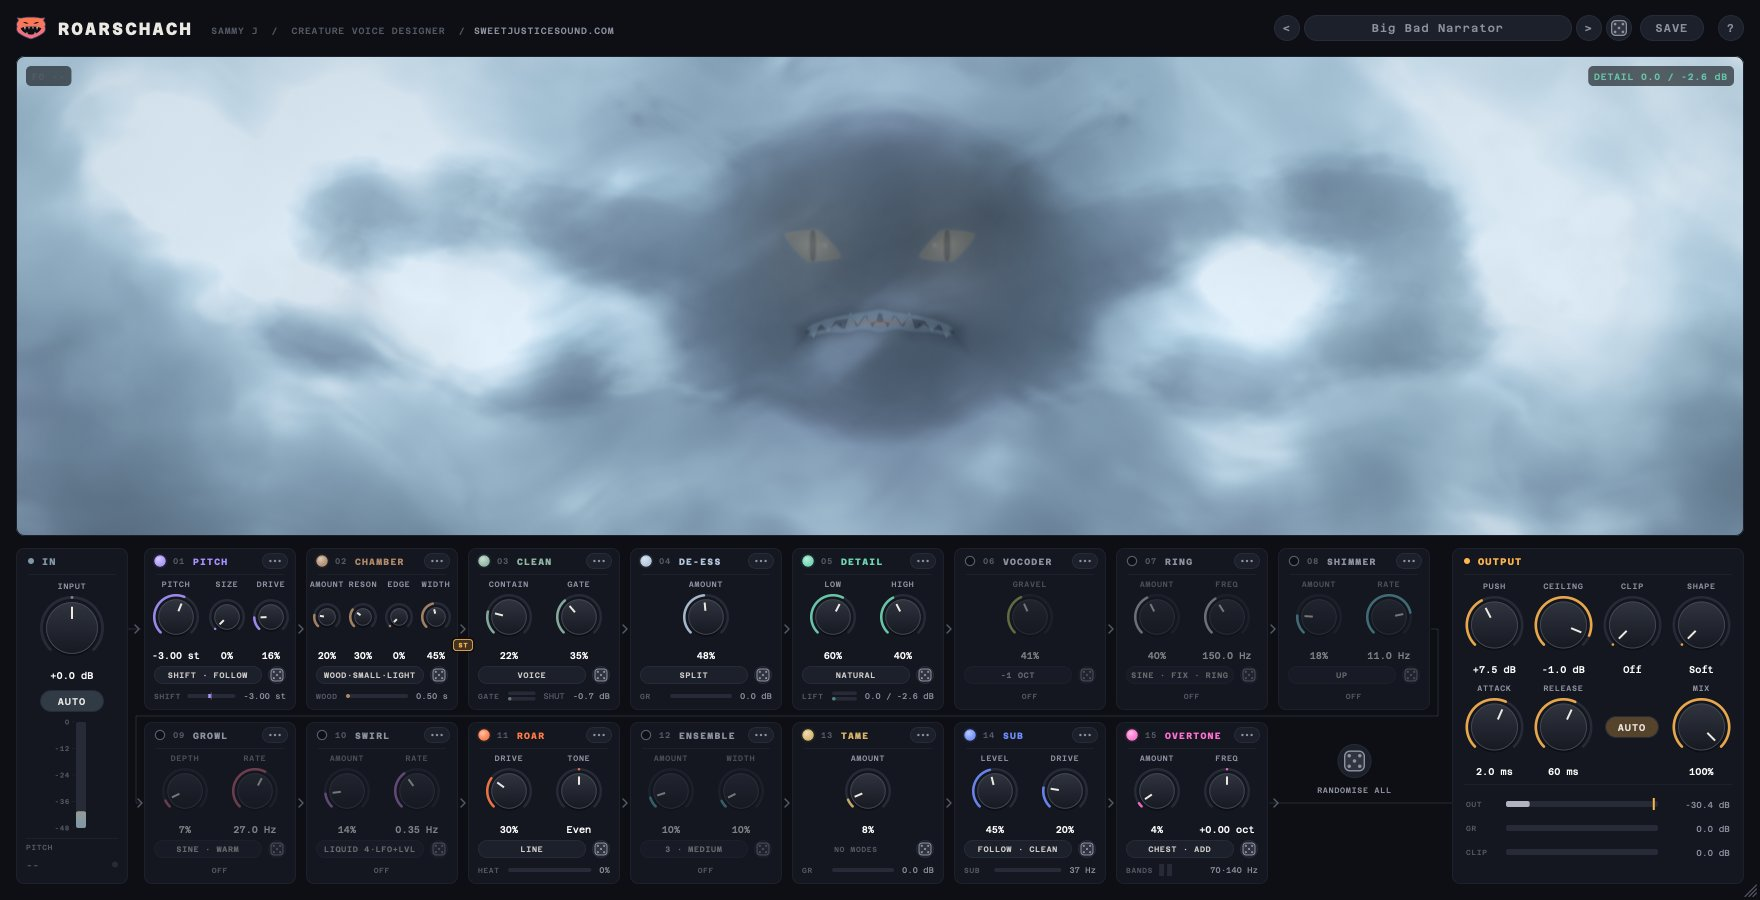
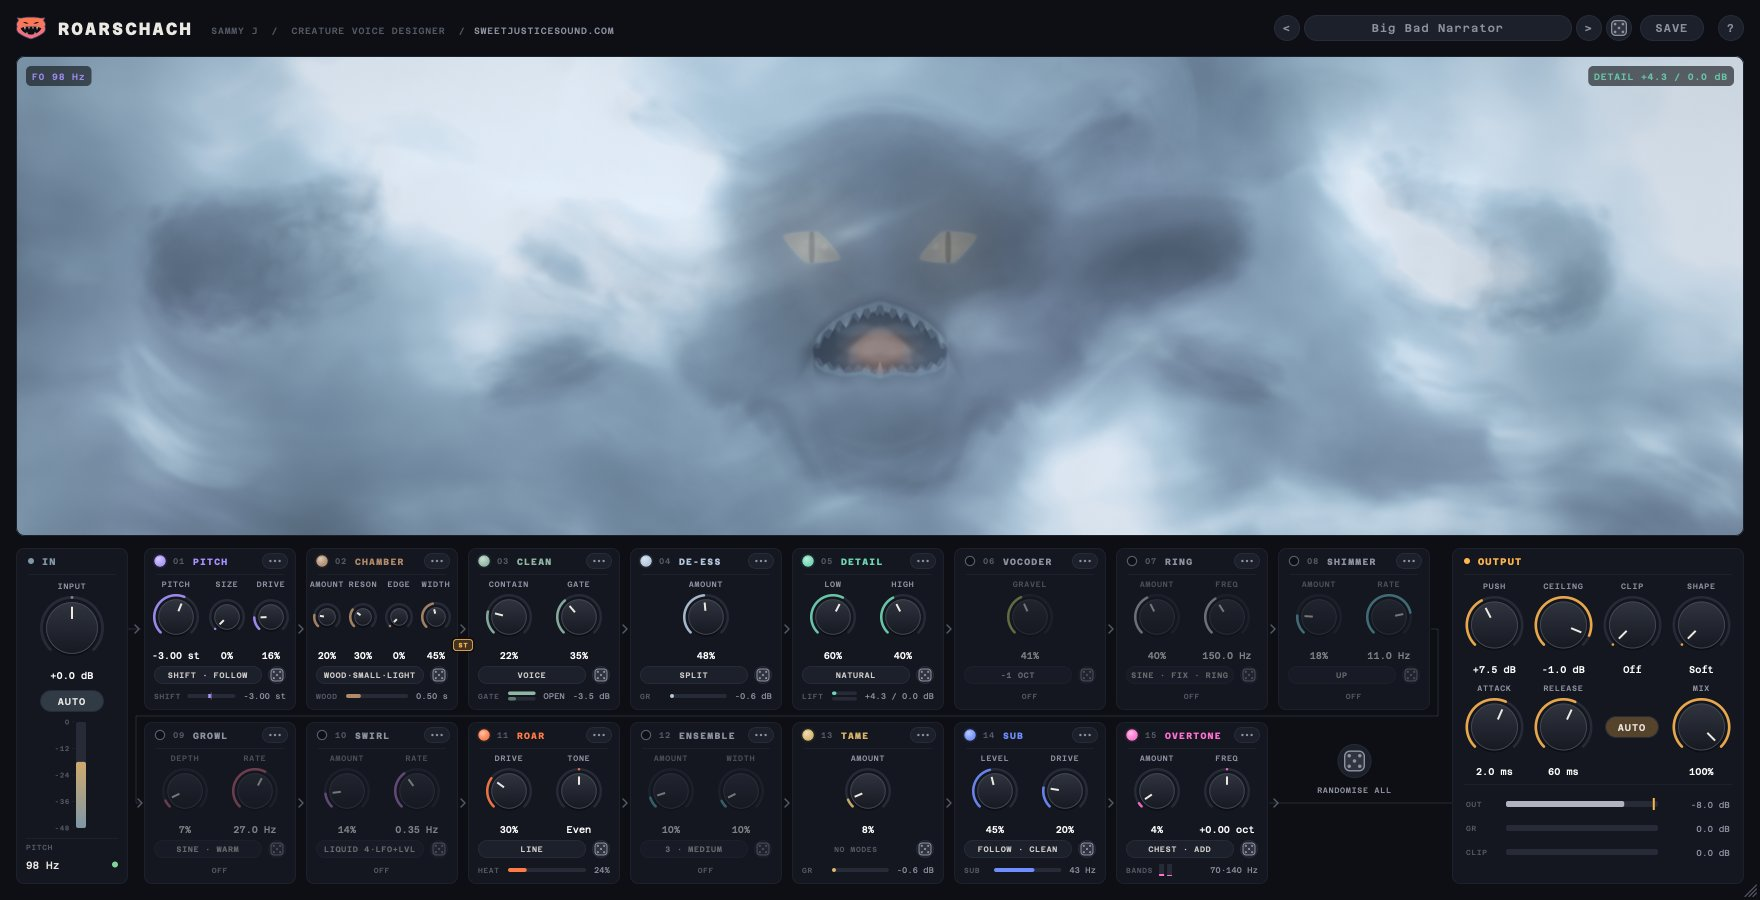
Roarschach: RING's muzzle blends into the face instead of a pasted-in box
RING's plates over the mouth were an axis-aligned rectangle with a
1.5 px edge, filled with an absolute metal colour. Under the mist that
read as a lighter, hard-edged tile round the maw (RANDOMISE ALL from
Big Bad Narrator, Cyber Commander). The plates are now a muzzle: dark
metal bands in an oval round the lips, its value the skin's own value
darkened, its outline feathered into the skin, so the mist veils it
like the rest of the body. Same shape in the fluid tiers and Q0. The
composite's maw bounding box grows with the opening so the feathered
outline never reaches its edge.

A renderer test measures the luma step across where the plate's sides
were against the step beside them (old: 3-5x, now about 1x).

Re-captured the README images that show the creature, with the same
settings, sizes and framing.

diff --git a/roarschach/Source/MonsterShaders.cpp b/roarschach/Source/MonsterShaders.cpp
@@ -327,6 +327,35 @@ float sdEllipse (vec2 p, vec2 r)
     return (k0 - 1.0) * ratio;
 }
 
+// RING's muzzle over the mouth: bands of dark metal in an oval round the lips, its outline feathered
+// into the skin (never a box: a straight-sided plate reads as a tile pasted over the face through
+// the mist). h is mirrored (x >= 0); body is the ring's body mix; feather in head units.
+// x: coverage (0..1), y: the band coordinate (0 at the top, 1 at the bottom, curving with the
+// outline), z: the distance to the outline (outside > 0).
+vec3 ringMuzzle (vec2 h, float mw, float mY, float open, float body, float feather)
+{
+    float top = mY + 0.032 + 0.22 * open;
+    float bot = mY - 0.045 - open - 0.01 * body;
+    float cy = 0.5 * (top + bot);
+    vec2 r = vec2 (mw * (1.12 + 0.08 * body), 0.5 * (top - bot));
+    float dz = sdEllipse (h - vec2 (0.0, cy), r);
+    float cov = 1.0 - smoothstep (-feather, 0.3 * feather, dz);
+    float halfH = r.y * sqrt (max (1.0 - (h.x * h.x) / (r.x * r.x), 0.04));
+    float sv = clamp (0.5 - 0.5 * (h.y - cy) / halfH, 0.0, 1.0);
+    return vec3 (cov, sv, dz);
+}
+
+// A rivet along the muzzle's upper band (i = 0, 1, 2 from the middle out): 0..1, inside the outline.
+float ringRivet (vec2 h, float mw, float mY, float open, float body, float i)
+{
+    float top = mY + 0.032 + 0.22 * open;
+    float bot = mY - 0.045 - open - 0.01 * body;
+    vec2 r = vec2 (mw * (1.12 + 0.08 * body), 0.5 * (top - bot));
+    float rx = r.x * (0.15 + 0.3 * i);
+    float ry = 0.5 * (top + bot) + r.y * sqrt (max (1.0 - (rx * rx) / (r.x * r.x), 0.0)) - 0.012;
+    return 1.0 - smoothstep (0.0035, 0.0065, length (h - vec2 (rx, ry)));
+}
+
 // One frill spike: the k-th fan sector's ridge (k may be -1, the mirror image of spike 0),
 // as long as its band is loud. fs is the angle in sectors (0 at the bottom, 16 at the last ridge).
 float frillSpike (float fr, float fs, float k, float band, float r0, float gravelOn)
@@ -1982,9 +2011,11 @@ const char* const c_compPost = R"GLSL(
         }
     }
 
-    // the maw: a hot throat at the back, the teeth, the plates
+    // the maw: a hot throat at the back, the teeth, the muzzle
+    // (a bounding box for speed only: everything drawn inside it, the muzzle's feathered outline
+    // included, has faded to nothing well before its edges, at every opening)
     float toothCov = 0.0;   // (the teeth stay dark against the glow: later glows and bloom skip them)
-    if (h.x < mw * 1.25 + 0.02 && h.y < mY + 0.07 && h.y > mY - open - 0.07)
+    if (h.x < mw * 1.25 + 0.02 && h.y < mY + 0.07 + 0.25 * open && h.y > mY - 1.1 * open - 0.09)
     {
         float aaM = aaC + 0.006 * sigma;
         float mouthShape = 1.0 - smoothstep (-aaM, aaM, dMouth);
@@ -2082,31 +2113,27 @@ const char* const c_compPost = R"GLSL(
         toothCov = max (toothCov, upA);
         col += uColDeess * upA * pow (tc1, 3.0) * (0.4 + 0.6 * upShade) * deessGlint;
 
-        // ring: dark metal plates over the mouth, their flicker as light (small and slow)
+        // ring: a muzzle of dark metal bands over the mouth, their flicker as light (small and slow).
+        // Its value is the skin's own, darkened, and its oval outline is feathered into the skin, so
+        // the mist veils it as it veils the body (an absolute metal colour inside a hard-edged
+        // rectangle read as a pale tile pasted over the face)
         if (uRing > 0.001)
         {
-            float top = mY + 0.032 + 0.22 * open;
-            float bot = yL - 0.016 - 0.01 * uRingBody;
-            float pw = mw * (1.12 + 0.08 * uRingBody);
-            float edge = min (pw - h.x, min (top - h.y, h.y - bot));
-            float plate = smoothstep (-aaC, aaC, edge);
+            vec3 mz = ringMuzzle (h, mw, mY, open, uRingBody, 0.012 + 0.016 * sigma);
             float slats = 3.0 + 2.0 * uRingBody;
-            float sv = fract ((top - h.y) / max (top - bot, 0.01) * slats);
-            float slat = smoothstep (0.04, 0.16, sv) * smoothstep (0.96, 0.84, sv);
+            float sv = fract (mz.y * slats);
+            float slat = smoothstep (0.04, 0.2, sv) * smoothstep (0.96, 0.8, sv);
             float flk = 0.85 + 0.15 * uRingFlicker;
-            vec3 metal = mix (vec3 (0.06, 0.065, 0.08), uColRing * 0.6, 0.25 + 0.5 * (1.0 - sv));
-            metal *= 0.5 + 0.7 * clamp (sun, 0.0, 1.2);
-            metal += uColRing * 0.12 * flk * (1.0 - sv);
-            vec3 gap = uColRing * 0.20 * flk + vec3 (0.015);
+            float lit = 0.5 + 0.5 * clamp (sun, 0.0, 1.2);
+            vec3 metal = col * (0.5 + 0.2 * (1.0 - sv)) * mix (vec3 (1.0), uColRing, 0.15);
+            metal += uColRing * 0.05 * flk * (1.0 - sv) * lit;
+            vec3 gap = col * 0.35 + uColRing * 0.03 * flk;
             float rivet = 0.0;
             for (int i = 0; i < 3; i++)
-            {
-                float rx = pw * (0.2 + 0.35 * float (i));
-                rivet += (1.0 - smoothstep (0.0035, 0.0055, length (h - vec2 (rx, top - 0.007)))) * uRingBody;
-            }
-            vec3 plateCol = mix (gap, metal, slat) + vec3 (0.6) * rivet * (0.5 + 0.5 * clamp (sun, 0.0, 1.0));
-            float plateA = clamp (0.3 + 1.4 * uRing, 0.0, 1.0) * smoothstep (0.0, 0.03, uRing) * Fm * keep;
-            col = mix (col, plateCol, plate * plateA);
+                rivet += ringRivet (h, mw, mY, open, uRingBody, float (i)) * uRingBody;
+            vec3 plateCol = mix (gap, metal, slat) + vec3 (0.2) * rivet * lit;
+            float plateA = min (clamp (0.3 + 1.4 * uRing, 0.0, 1.0), 0.85) * smoothstep (0.0, 0.03, uRing) * Fm * keep;
+            col = mix (col, plateCol, mz.x * plateA);
         }
     }
 
@@ -2719,32 +2746,27 @@ const char* const c_q0Rest = R"GLSL(
     // de-ess: a cold glint runs along the teeth on each S
     col += uColDeess * upA * pow (tc1, 3.0) * (0.4 + 0.6 * upShade) * deessGlint;
 
-    // ring: metal plates over the mouth, flickering at a slowed copy of the carrier
+    // ring: a muzzle of dark metal bands over the mouth, flickering at a slowed copy of the carrier
+    // (as in the fluid tiers: the skin's own value darkened, in a feathered oval, never a box)
     if (uRing > 0.001)
     {
-        float top = mY + 0.032 + 0.22 * open;
-        float bot = yL - 0.016 - 0.01 * uRingBody;
-        float pw = mw * (1.12 + 0.08 * uRingBody);
-        float edge = min (pw - h.x, min (top - h.y, h.y - bot));
-        float plate = smoothstep (0.0, 0.003, edge);
+        vec3 mz = ringMuzzle (h, mw, mY, open, uRingBody, 0.012 + 0.016 * sigma);
         float slats = 3.0 + 2.0 * uRingBody;
-        float sv = fract ((top - h.y) / max (top - bot, 0.01) * slats);
-        float slat = smoothstep (0.04, 0.16, sv) * smoothstep (0.96, 0.84, sv);
+        float sv = fract (mz.y * slats);
+        float slat = smoothstep (0.04, 0.2, sv) * smoothstep (0.96, 0.8, sv);
         float flk = 0.55 + 0.45 * uRingFlicker;
-        vec3 metal = mix (vec3 (0.10, 0.11, 0.13), uColRing, 0.25 + 0.6 * (1.0 - sv));
-        metal += vec3 (1.0) * pow (1.0 - abs (sv - 0.3) * 2.0, 8.0) * 0.35;          // a bright line on each slat
-        metal *= 0.45 + 0.55 * flk;
+        vec3 metal = col * (0.5 + 0.2 * (1.0 - sv)) * mix (vec3 (1.0), uColRing, 0.15);
+        metal += uColRing * pow (1.0 - abs (sv - 0.3) * 2.0, 8.0) * 0.06 * flk;   // a faint line of light on each band
+        metal += uColRing * 0.05 * flk * (1.0 - sv);
         float rivet = 0.0;
         for (int i = 0; i < 3; i++)
-        {
-            float rx = pw * (0.2 + 0.35 * float (i));
-            rivet += (1.0 - smoothstep (0.0035, 0.0055, length (h - vec2 (rx, top - 0.007)))) * uRingBody;
-        }
-        vec3 gap = uColRing * 0.35 * uRingFlicker + vec3 (0.02);
-        vec3 plateCol = mix (gap, metal, slat) + vec3 (0.9) * rivet;
-        float plateA = clamp (0.3 + 1.4 * uRing, 0.0, 1.0) * smoothstep (0.0, 0.03, uRing) * Fm * keep;
-        col = mix (col, plateCol, plate * plateA);
-        col += uColRing * exp (-max (-edge, 0.0) * 120.0) * (1.0 - plate) * uRing * 0.25 * flk * Fm * keep;
+            rivet += ringRivet (h, mw, mY, open, uRingBody, float (i)) * uRingBody;
+        vec3 gap = col * 0.35 + uColRing * 0.04 * uRingFlicker;
+        vec3 plateCol = mix (gap, metal, slat) + vec3 (0.25) * rivet;
+        float plateA = min (clamp (0.3 + 1.4 * uRing, 0.0, 1.0), 0.85) * smoothstep (0.0, 0.03, uRing) * Fm * keep;
+        col = mix (col, plateCol, mz.x * plateA);
+        // its flicker, a soft glow just outside the outline
+        col += uColRing * exp (-max (mz.z, 0.0) / 0.02) * (1.0 - mz.x) * uRing * 0.08 * flk * Fm * keep;
     }
 
     // rings and embers also play faintly over the creature

diff --git a/roarschach/Tests/RoarschachTests.cpp b/roarschach/Tests/RoarschachTests.cpp
@@ -5330,6 +5330,97 @@ namespace
                     frame.set(U::uJaw, 0.4f);
                     frame.set(U::uLevel, 0.0f);
                 }
+                // RING's muzzle blends into the face: no step in value across where the old
+                // rectangular plate's sides were (a feathered oval now). The luma step across that
+                // line, against the step just beside it on either side; a hard edge measured 3-18x.
+                // (Twice the size, so the muzzle's feather spans enough pixels to tell from an edge.)
+                {
+                    const int W2 = W * 2, H2 = H * 2;
+                    GLuint fbo2 = 0, rb2 = 0;
+                    glGenFramebuffers(1, &fbo2);
+                    glBindFramebuffer(GL_FRAMEBUFFER, fbo2);
+                    glGenRenderbuffers(1, &rb2);
+                    glBindRenderbuffer(GL_RENDERBUFFER, rb2);
+                    glRenderbufferStorage(GL_RENDERBUFFER, GL_RGBA8, W2, H2);
+                    glFramebufferRenderbuffer(GL_FRAMEBUFFER, GL_COLOR_ATTACHMENT0, GL_RENDERBUFFER, rb2);
+                    const int vp2[4] = { 0, 0, W2, H2 };
+                    frame.set(U::uRes, static_cast<float>(W2), static_cast<float>(H2));
+                    frame.set(U::uPxScale, 1.0f);
+                    frame.set(U::uRadius, 8.0f);
+                    frame.set(U::uRing, 1.0f);
+                    frame.set(U::uRingBody, 0.6f);
+                    frame.set(U::uRingFlicker, 1.0f);
+                    {
+                        const juce::Colour accent(Params::module(Params::ModuleId::ring).accent);   // (as the view sets it)
+                        frame.set(U::uColRing, accent.getFloatRed(), accent.getFloatGreen(), accent.getFloatBlue());
+                    }
+                    for (const int tier : { 3, 0 })
+                        for (const float jaw : { 0.35f, 1.0f })
+                        {
+                            r.setForcedTier(tier);
+                            frame.set(U::uJaw, jaw);
+                            for (int i = 0; i < 8; ++i)
+                            {
+                                frame.clock += 1.0 / 30.0;
+                                r.prepare(frame);
+                                glBindFramebuffer(GL_FRAMEBUFFER, fbo2);
+                                glClearColor(0, 0, 0, 1);
+                                glClear(GL_COLOR_BUFFER_BIT);
+                                r.render(frame, fbo2, vp2);
+                            }
+                            std::vector<unsigned char> px(static_cast<size_t>(W2 * H2 * 4));
+                            glBindFramebuffer(GL_FRAMEBUFFER, fbo2);
+                            glReadPixels(0, 0, W2, H2, GL_RGBA, GL_UNSIGNED_BYTE, px.data());
+                            const auto L = [&](double x, double yUp)
+                            {
+                                const int xi = juce::jlimit(0, W2 - 1, static_cast<int>(std::lround(x)));
+                                const int yi = juce::jlimit(0, H2 - 1, static_cast<int>(std::lround(yUp)));
+                                const unsigned char* q = &px[(static_cast<size_t>(yi) * static_cast<size_t>(W2) + static_cast<size_t>(xi)) * 4];
+                                return (0.3 * q[0] + 0.59 * q[1] + 0.11 * q[2]) / 255.0;
+                            };
+                            // the head transform and the mouth, as the shader has them (GL rows run bottom up)
+                            const float* hd = frame.at(U::uHead);
+                            const float* cl = frame.at(U::uCloud);
+                            const float sizeV = frame.get(U::uSize);
+                            const float scale = 1.0f + juce::jlimit(-1.0f, 2.0f, -frame.get(U::uPitch) / 12.0f) * 0.065f + 0.014f * hd[3] * 0.35f + jaw * 0.025f + hd[1];
+                            const float offY = 0.025f + hd[0];
+                            const float eyeOuter = 0.135f * cl[1] + 0.056f * (1.0f + (frame.get(U::uEvoEyes, 3) - 1.0f) * 0.5f);
+                            const float mw = std::min((0.15f + 0.08f * sizeV) * frame.get(U::uEvoMaw, 0), eyeOuter * 0.92f) * (1.0f - 0.10f * jaw);
+                            const float open = 0.006f + std::pow(jaw, 1.6f) * (0.12f + 0.05f * (sizeV + frame.get(U::uEvoHead, 2)));
+                            const float mY = -0.075f, pw = mw * (1.12f + 0.08f * 0.6f), top = mY + 0.032f + 0.22f * open;
+                            double stepSum = 0.0, baseSum = 0.0;
+                            for (int k = 0; k < 30; ++k)
+                            {
+                                const float hy = (mY - 0.5f * open) + (top - (mY - 0.5f * open)) * (0.1f + 0.8f * k / 30.0f);
+                                const double y = H2 * 0.5 + (hy * scale + offY) * H2;
+                                for (const int sgn : { -1, 1 })
+                                {
+                                    const double x = W2 * 0.5 + sgn * pw * scale * H2;
+                                    const auto band = [&](double o0, double o1)
+                                    {
+                                        double s = 0.0;
+                                        for (double o = o0; o <= o1; o += 1.0)
+                                            s += L(x + sgn * o, y);
+                                        return s / (o1 - o0 + 1.0);
+                                    };
+                                    stepSum += std::abs(band(1, 3) - band(-3, -1));
+                                    baseSum += 0.5 * (std::abs(band(9, 11) - band(5, 7)) + std::abs(band(-7, -5) - band(-11, -9)));
+                                }
+                            }
+                            const double ratio = stepSum / std::max(baseSum, 1.0e-6);
+                            std::printf("  tier %d, jaw %.2f: RING muzzle, step across the old plate's side %.2fx the step beside it%s\n", tier, jaw, ratio, tag.toRawUTF8());
+                            check(ratio < 2.0, "renderer: tier " + juce::String(tier) + " RING's muzzle has no straight edge at jaw " + juce::String(jaw, 2)
+                                                   + " (step across the old plate's side " + juce::String(ratio, 2) + "x the step beside it)" + tag);
+                        }
+                    frame.set(U::uRing, 0.0f);
+                    frame.set(U::uRingBody, 0.0f);
+                    frame.set(U::uJaw, 0.4f);
+                    frame.set(U::uRes, static_cast<float>(W), static_cast<float>(H));
+                    frame.set(U::uPxScale, 0.5f);
+                    frame.set(U::uRadius, 4.0f);
+                    glDeleteRenderbuffers(1, &rb2);
+                    glDeleteFramebuffers(1, &fbo2);
+                }
                 r.setForcedTier(3);
                 draw(r, 6);
                 std::vector<float> v;

diff --git a/roarschach/Source/MonsterView.h b/roarschach/Source/MonsterView.h
@@ -21,7 +21,7 @@
  * mirrored pair of vortices at the phaser's notch; ensemble stretches the smoke sideways; roar
  * jets heat from the mouth corners and the eyes and throat glow through the ink; sub onsets push
  * rings through the fog; the vocoder lights 32 ridges under the jaw; overtone lights one rib per
- * harmonic (hollow in Replace); ring puts dark plates over the mouth; de-ess glints on the teeth;
+ * harmonic (hollow in Replace); ring puts a dark metal muzzle round the mouth; de-ess glints on the teeth;
  * tame dims the crown; a shut gate closes the lips; the limiter throbs at the temples and the
  * clipper throws sparks of heat off the edges. After 1.5 s of silence it falls asleep.
  *
@@ -54,7 +54,7 @@ public:
         float swirl = 0.0f;        // SWIRL amount (the sheen band's strength)
         float ensemble = 0.0f;     // ENSEMBLE amount (the tendrils' strength)
         float overtone = 0.0f;     // OVERTONE amount (the ribs' strength)
-        float ring = 0.0f;         // RING amount (the plates over the mouth)
+        float ring = 0.0f;         // RING amount (the muzzle round the mouth)
         float cleanOn = 1.0f;      // CLEAN is On: its gate may close the lips
     };
 

diff --git a/roarschach/Source/MonsterView.cpp b/roarschach/Source/MonsterView.cpp
@@ -379,7 +379,7 @@ void MonsterView::updateAnimation (float dt)
     follow (m_ring, safe (load (f.ringAmount), 0.0f, 1.0f), dt, 0.1f, 0.2f);
     follow (m_ringBody, safe (load (f.ringBodyMix), 0.0f, 1.0f), dt, 0.1f, 0.2f);
     {
-        // The plates flicker at the carrier, halved until it is slow enough to watch (8 Hz or slower).
+        // The muzzle flickers at the carrier, halved until it is slow enough to watch (8 Hz or slower).
         float rate = safe (load (f.ringHz), 0.0f, 20000.0f);
         while (rate > 8.0f)
             rate *= 0.5f;

diff --git a/roarschach/README.md b/roarschach/README.md
@@ -110,11 +110,11 @@ Each roll is one step you can take back: right-click any die for **Undo** and **
 
 <img src="docs/dice-undo-menu.png" alt="The menu from right-clicking RANDOMISE ALL straight after a roll: Undo Roll All, and Redo Roll greyed out" width="200">
 
-One RANDOMISE ALL roll from the Big Bad Narrator preset. Before, PITCH, CLEAN, DE-ESS, DETAIL, ROAR, TAME, SUB, OVERTONE and CHAMBER are on; after, CLEAN, VOCODER, RING, SHIMMER and ENSEMBLE are, every module has new settings, the preset name shows `*`, and the creature has metal plates over its mouth from RING. The module order, IN and OUTPUT are as they were.
+One RANDOMISE ALL roll from the Big Bad Narrator preset. Before, PITCH, CLEAN, DE-ESS, DETAIL, ROAR, TAME, SUB, OVERTONE and CHAMBER are on; after, CLEAN, VOCODER, RING, SHIMMER and ENSEMBLE are, every module has new settings, the preset name shows `*`, and the creature has a faint dark metal muzzle round its mouth from RING. The module order, IN and OUTPUT are as they were.
 
 <img src="docs/roll-before.jpg" alt="The whole window with the Big Bad Narrator preset playing a voice: PITCH, CLEAN, DE-ESS, DETAIL, ROAR, TAME, SUB, OVERTONE and CHAMBER switched on" width="880">
 
-<img src="docs/roll-after.jpg" alt="The same window after one RANDOMISE ALL roll: the preset name reads Big Bad Narrator *, and CLEAN, VOCODER, RING, SHIMMER and ENSEMBLE are on with new settings while the other modules are off; the creature has grey metal plates over its mouth" width="880">
+<img src="docs/roll-after.jpg" alt="The same window after one RANDOMISE ALL roll: the preset name reads Big Bad Narrator *, and CLEAN, VOCODER, RING, SHIMMER and ENSEMBLE are on with new settings while the other modules are off; the creature has a faint dark metal muzzle round its mouth" width="880">
 
 A roll only lands where a knob is useful: each knob rolls inside the range the [parameter audit](docs/parameter-audit.md) found usable, never into its dead or harmful ends (PITCH −14 to −2 st, Swirl up to 50% and its Deep 6 circuit up to 30%, Ring Freq 60–450 Hz, Chamber 15–65%, and so on), and each mode is picked evenly from its options (Boom leaves out Heavy). The dice never move a module or touch IN or OUTPUT, so the level stays safe: on five real voice takes, 200 rolls each, 998 of the 1,000 rolls played within 3 LU of Init (the other two 3.0 and 3.8 LU quieter), and none went over the ceiling. Knobs glide to their new values and modules fade in and out, so a roll does not click while audio plays.
 
@@ -362,7 +362,7 @@ On top of whatever form it has taken, every module still shows on it:
 - Its jaw opens with the voice; PITCH and SIZE make its head and jaw bigger.
 - GROWL stirs the smoke and shivers its lips, SHIMMER ripples its skin and drips ink, SWIRL spins a pair of eddies through the smoke and sweeps a sheen up and down its face, and ENSEMBLE stretches the smoke out to the sides.
 - ROAR heats its eyes and throat, SUB sends rings out of its throat, the VOCODER lights a fan of 32 ridges under its jaw (one per band), and OVERTONE lights one rib per overtone under its chin (hollow in Replace).
-- RING puts flickering metal plates over its mouth, DE-ESS glints on its teeth, TAME dims its crown, and CLEAN's gate closes its lips between words.
+- RING puts a flickering dark metal muzzle round its mouth, DE-ESS glints on its teeth, TAME dims its crown, and CLEAN's gate closes its lips between words.
 - CHAMBER leaves an after-image: while the room rings, its wings and tendrils trail each movement for longer, and Boom adds a slow swell to its breathing.
 - At the output, the limiter throbs at its temples and the clipper throws sparks off its edges.
 
@@ -394,7 +394,7 @@ Every preset sets every control, including the module order. The Signal Flow pre
 
 A few contrasting presets, each playing the same voice (the creature is shown at a different stage of growth in each):
 
-<img src="docs/preset-simple-size.jpg" alt="Simple Size: PITCH at -1 st, CLEAN, DE-ESS, TAME and CHAMBER on and everything else off; a faint early creature in the mist" width="440"> <img src="docs/preset-cyber-commander.jpg" alt="Cyber Commander: CLEAN, RING, PITCH, ROAR, DE-ESS, DETAIL, GROWL and TAME on, with CLEAN and RING moved ahead of PITCH; the creature has RING's metal plates over its mouth" width="440">
+<img src="docs/preset-simple-size.jpg" alt="Simple Size: PITCH at -1 st, CLEAN, DE-ESS, TAME and CHAMBER on and everything else off; a faint early creature in the mist" width="440"> <img src="docs/preset-cyber-commander.jpg" alt="Cyber Commander: CLEAN, RING, PITCH, ROAR, DE-ESS, DETAIL, GROWL and TAME on, with CLEAN and RING moved ahead of PITCH; the creature has RING's faint dark metal muzzle round its mouth" width="440">
 <img src="docs/preset-symbiote.jpg" alt="Symbiote: PITCH, CLEAN, DE-ESS, SHIMMER, GROWL, SWIRL, ROAR, ENSEMBLE, TAME and SUB on; a dark smoky head with spreading wings and a wide maw of teeth" width="440"> <img src="docs/preset-iron-tyrant.jpg" alt="Iron Tyrant: CHAMBER after ROAR in Steel Box with the Horn speaker, and PITCH, CLEAN, DE-ESS, DETAIL, GROWL, TAME and SUB on; a horned head with broad wings and a glowing maw" width="440">
 
 Each preset's settings sit in the useful part of every knob's travel, as measured in [docs/parameter-audit.md](docs/parameter-audit.md), and every preset except the deliberately loud Utility ones (Loud & Contained, Crunch Lift and Smashed) plays within about 1.5 LU of Init.
